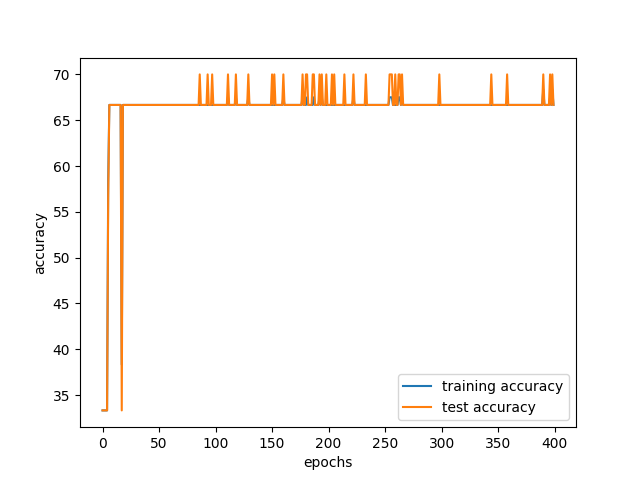
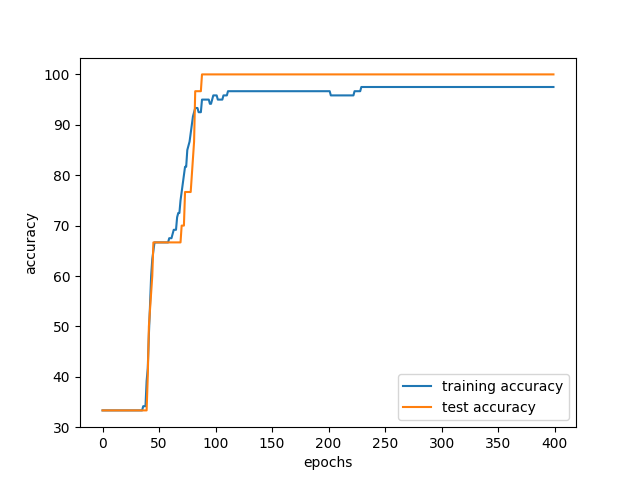
Move on pc

diff --git a/lab_6/main.py b/lab_6/main.py
@@ -1,6 +1,9 @@
 import math
 import os
 
+import numpy
+
+from graphics import Graphics
 from input.parser import Parser
 import numpy as np
 import random as rand
@@ -40,16 +43,16 @@ def get_error(results, outputs):
 
 
 def forward_prop(weights, biases, instances):
-    z0 = np.add((weights[0].dot(instances.transpose())), biases[0].reshape(24, 1))
-    y0 = sigmoid(z0)
-    z1 = np.add(np.dot(weights[1], y0), biases[1].reshape(3, 1))
-    y1 = sigmoid(z1)
-    return z0, y0, z1, y1
-    # z0 = np.add(weights[0].dot(instances.transpose()), biases[0].reshape(24, 1))
+    # z0 = np.add((weights[0].dot(instances.transpose())), biases[0].reshape(24, 1))
     # y0 = sigmoid(z0)
     # z1 = np.add(np.dot(weights[1], y0), biases[1].reshape(3, 1))
-    # y1 = softmax(z1)
+    # y1 = sigmoid(z1)
     # return z0, y0, z1, y1
+    z0 = np.add(weights[0].dot(instances.transpose()), biases[0].reshape(24, 1))
+    y0 = sigmoid(z0)
+    z1 = np.add(np.dot(weights[1], y0), biases[1].reshape(3, 1))
+    y1 = softmax(z1)
+    return z0, y0, z1, y1
 
 
 def softmax(values):
@@ -58,16 +61,16 @@ def softmax(values):
 
 
 def forward_prop_instance(weights, biases, instance):
-    z0 = np.add(weights[0].dot(instance), biases[0])
-    y0 = sigmoid(z0)
-    z1 = np.add(np.dot(weights[1], y0), biases[1])
-    y1 = sigmoid(z1)
-    return z0, y0, z1, y1
     # z0 = np.add(weights[0].dot(instance), biases[0])
     # y0 = sigmoid(z0)
     # z1 = np.add(np.dot(weights[1], y0), biases[1])
-    # y1 = softmax(z1)
+    # y1 = sigmoid(z1)
     # return z0, y0, z1, y1
+    z0 = np.add(weights[0].dot(instance), biases[0])
+    y0 = sigmoid(z0)
+    z1 = np.add(np.dot(weights[1], y0), biases[1])
+    y1 = softmax(z1)
+    return z0, y0, z1, y1
 
 
 def get_one_hot_target(target):
@@ -126,39 +129,39 @@ def plot_accuracies(nr_epochs, training_accuracy, test_accuracy, graph_name):
 
 
 def backward_prop(inputs, y0, y1, weights_level_2, targets):
-    # dC/dy * dy/dz
-    # shape = 3, 10
-    dz2 = y1 * np.subtract(1, y1) * np.subtract(y1, targets)
-    # dy/dz * (error for every neuron * weights for it)
-    # shape = 24, 10 * 24, 10(10, 4 dot 4, 24)  =>  24, 10
-    dz1 = y0 * np.subtract(1, y0) * dz2.transpose().dot(weights_level_2).transpose()
-    # (hidden -> output)
-    # 3, 10 * 10, 24 = 3, 24
-    dw2 = dz2.dot(y0.transpose())
-    db2 = np.sum(dz2, axis=1)
-    # (input -> hidden)
-    # 24, 10 * 24, 4 = 24, 4
-    dw1 = dz1.dot(inputs)
-    db1 = np.sum(dz1, axis=1)
-
-    return dw1, dw2, db1, db2
-
     # # dC/dy * dy/dz
-    # # shape = 10, 50
-    # dz2 = -1 / len(targets[0]) * np.subtract(targets, y1)
+    # # shape = 3, 10
+    # dz2 = y1 * np.subtract(1, y1) * np.subtract(y1, targets)
     # # dy/dz * (error for every neuron * weights for it)
-    # # shape = 100, 50 * 100, 50(50, 10 dot 10, 100)  =>  100, 50
+    # # shape = 24, 10 * 24, 10(10, 4 dot 4, 24)  =>  24, 10
     # dz1 = y0 * np.subtract(1, y0) * dz2.transpose().dot(weights_level_2).transpose()
     # # (hidden -> output)
-    # # 10, 50 * 50, 100 = 10, 100
+    # # 3, 10 * 10, 24 = 3, 24
     # dw2 = dz2.dot(y0.transpose())
     # db2 = np.sum(dz2, axis=1)
     # # (input -> hidden)
-    # # 100, 50 * 50, 784 = 100, 784
+    # # 24, 10 * 24, 4 = 24, 4
     # dw1 = dz1.dot(inputs)
     # db1 = np.sum(dz1, axis=1)
     #
     # return dw1, dw2, db1, db2
+
+    # dC/dy * dy/dz
+    # shape = 10, 50
+    dz2 = -1 / len(targets[0]) * np.subtract(targets, y1)
+    # dy/dz * (error for every neuron * weights for it)
+    # shape = 100, 50 * 100, 50(50, 10 dot 10, 100)  =>  100, 50
+    dz1 = y0 * np.subtract(1, y0) * dz2.transpose().dot(weights_level_2).transpose()
+    # (hidden -> output)
+    # 10, 50 * 50, 100 = 10, 100
+    dw2 = dz2.dot(y0.transpose())
+    db2 = np.sum(dz2, axis=1)
+    # (input -> hidden)
+    # 100, 50 * 50, 784 = 100, 784
+    dw1 = dz1.dot(inputs)
+    db1 = np.sum(dz1, axis=1)
+
+    return dw1, dw2, db1, db2
 
 
 def update_params(weights, biases, dw1, dw2, db1, db2, learning_rate):
@@ -170,7 +173,7 @@ def update_params(weights, biases, dw1, dw2, db1, db2, learning_rate):
     return weights, biases
 
 
-def train(train_data, train_target, test_data, test_target, weights, biases, nr_epochs=400, learning_rate=0.35,
+def train(train_data, train_target, test_data, test_target, weights, biases, nr_epochs=400, learning_rate=0.01,
           batch_size=10):
     batches_data, batches_target = get_batches(train_data, train_target, batch_size)
     training_accuracy = []
@@ -262,8 +265,22 @@ def main():
     # batches_data, batches_target = get_batches(train_data, train_target, 10)
     print(f"accuracy without any training: {get_accuracy(weights, biases, train_data, train_target)[0]}")
     get_confusion_matrix(weights, biases, train_data, train_target)
-    train(train_data, train_target, test_data, test_target, weights, biases)
+    weights, biases = train(train_data, train_target, test_data, test_target, weights, biases)
 
+    wrong_classified = get_accuracy(weights, biases, train_data, train_target)[1]
+    data_arr = [
+        numpy.array([float(as_num) for as_num in element[0]])
+        for element in wrong_classified]
+    expected_results = [element[1] for element in wrong_classified]
+    results = [element[2] for element in wrong_classified]
+
+
+    print(wrong_classified)
+    graphics = Graphics(data=data_arr,
+                        expected_results=expected_results,
+                        results=results,
+                        must_process=True)
+    graphics.save_visual_representation()
 
 if __name__ == '__main__':
     main()

diff --git a/lab_7/algorithm.py b/lab_7/algorithm.py
@@ -1,0 +1,70 @@
+from collections import defaultdict
+from random import random
+
+FAIL_REWARD = -100
+STANDARD_REWARD = -1
+WIN_REWARD = 100
+NR_ROWS = 6
+NR_COLS = 14
+
+ACTIONS = ["UP", "DOWN", "LEFT", "RIGHT"]
+
+class Algorithm:
+    def __init__(self, n, m, discount, learning_rate):
+        self.n = n
+        self.m = m
+        self.discount = discount
+        self.learning_rate = learning_rate
+        self.data = defaultdict(lambda: dict())
+        self.frequency = defaultdict(lambda: 0)
+        self.n_episodes = 1000
+
+    def is_possible(self, line, column, transition):
+        next_state = [line, column]
+        if transition == "UP":
+            next_state[0] -= 1
+
+        if transition == "DOWN":
+            next_state[0] += 1
+
+        if transition == "LEFT":
+            next_state[1] -= 1
+
+        if transition == "RIGHT":
+            next_state[1] += 1
+
+        if not (0 <= next_state[0] < n) or \
+                not (0 <= next_state[1] < m):
+            return False
+        return True
+
+    def do_transition(self, state, transition):
+        next_state = list(state)
+        if transition == "UP":
+            next_state[0] -= 1
+
+        if transition == "DOWN":
+            next_state[0] += 1
+
+        if transition == "LEFT":
+            next_state[1] -= 1
+
+        if transition == "RIGHT":
+            next_state[1] += 1
+
+        # if not (0 <= next_state[0] < n) or \
+        #         not (0 <= next_state[1] < m):
+        #     return None
+        return tuple(next_state)
+
+    def set_playground(self):
+        for line_index in range(self.n):
+            for column_index in range(self.m):
+                for action in ACTIONS:
+                    if not self.is_possible(line_index, column_index, action):
+                        continue
+                    self.data[(line_index, column_index)][action] = random.randint(0, 100)
+
+    def run(self):
+        for e in range(self.n_episodes):
+            current_state = env.reset()

diff --git a/lab_6/input/parser.py b/lab_6/input/parser.py
@@ -14,7 +14,8 @@ class Parser:
             line = line[:-1]
             attr_values = line.split(",")
             out_value = attr_values[-1]
-            data[out_value].append(attr_values[:-1])
+            float_values = [float(value) for value in attr_values[:-1]]
+            data[out_value].append(float_values)
 
         # TODO -> FIND A BETTER FIX FOR THIS ISSUE
         data.pop('')

diff --git a/lab_6/graphics.py b/lab_6/graphics.py
@@ -23,7 +23,7 @@ class Graphics:
             self.data = data
         self.expected_results = expected_results
         self.results = results
-        self.no_dimensions = len(data)
+        self.no_dimensions = len(self.data)
         self.dirname = "default"
 
     def save_visual_with_axis(self, x_index, y_index, z_index):
